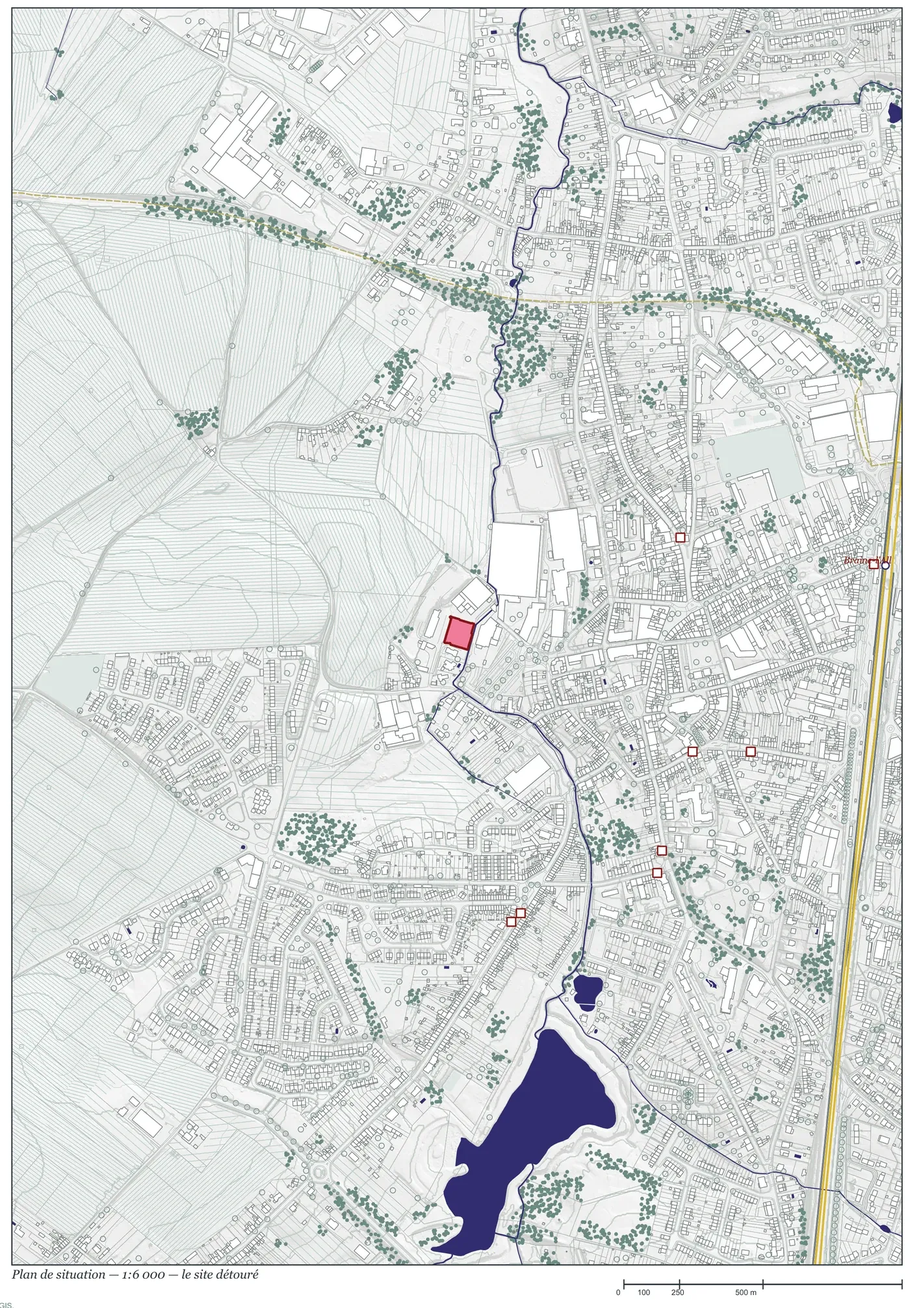
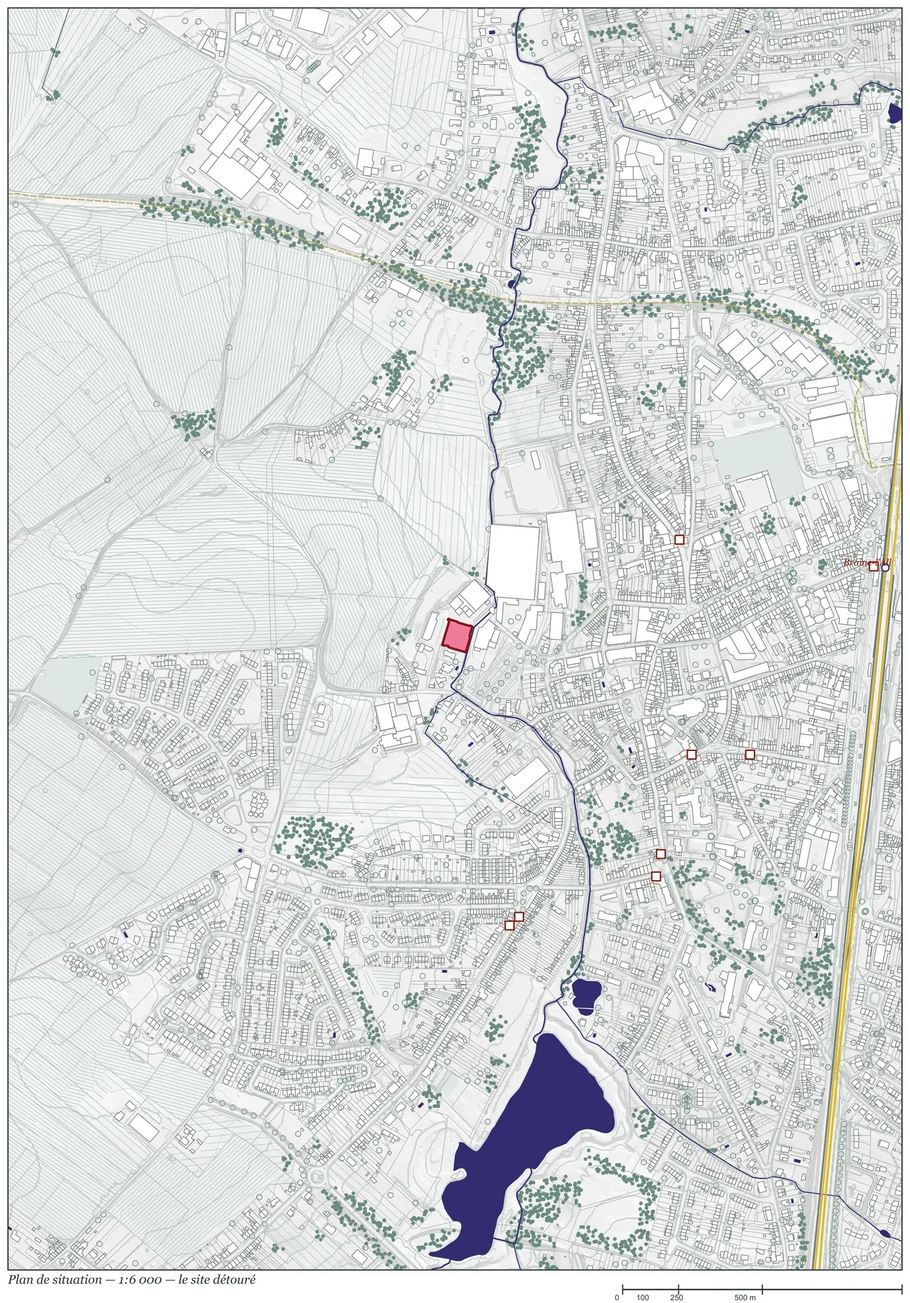
Three Seasons : légendes des cartes corrigées après relecture, grande carte recoupée
La relecture contre les images a relevé deux légendes fausses : le hangar est en R+1,
pas parmi les plus hauts, et « R+3 et plus » vaut quatre niveaux ; « north to south »
se lisait comme un sens d'écoulement que la carte ne montre pas. « location plan » et
« zoning » remplacent des calques du français. La grande carte est recoupée pour exclure
le début de la ligne des sources, qui entrait dans le cadrage.

diff --git a/projets/projets.js b/projets/projets.js
@@ -52,10 +52,10 @@ window.PROJETS = [
       { src: 'projets/images/tsa-site-plan_1400.webp', w: 1400, h: 846, legende: 'site plan — the Carimar site around its central yard, the Hain along the east edge, the neighbouring buildings' },
       { src: 'projets/images/tsa-ground-floor_1400.webp', w: 1400, h: 1718, legende: 'ground floor — foyer on the yard, entrance hall under the sawtooth roofs, rooms and workshops off the corridor, maple garden to the north; new in red, existing in grey' },
       { src: 'projets/images/tsa-first-floor_1400.webp', w: 1400, h: 1718, legende: 'first floor — the single upper level, above the multi-purpose rooms' },
-      { src: 'projets/images/tsa-map-situation_1400.webp', w: 1400, h: 2013, legende: 'situation plan, 1:6 000 — the site outlined in red, the Hain running north to south, railway line 124 to the east' },
+      { src: 'projets/images/tsa-map-situation_1400.webp', w: 1400, h: 2006, legende: 'location plan, 1:6 000 — the site outlined in red, the Hain running north–south past it, railway line 124 to the east' },
       { src: 'projets/images/tsa-map-connections_1174.webp', w: 1174, h: 1526, legende: 'connections, 1:15 000 — municipal roads and paths, railway line 124, the RAVeL greenway, bus stops, the Hain' },
-      { src: 'projets/images/tsa-map-land-use_1162.webp', w: 1162, h: 1543, legende: 'land use, 1:15 000 — housing, rural housing, mixed economic activity, public facilities; the warehouse in red' },
-      { src: 'projets/images/tsa-map-building-heights_1174.webp', w: 1174, h: 1456, legende: 'building heights, 1:15 000 — from single-storey to three storeys and more; the warehouse among the tallest' },
+      { src: 'projets/images/tsa-map-land-use_1162.webp', w: 1162, h: 1543, legende: 'zoning, 1:15 000 — housing, rural housing, mixed economic activity, public facilities; the warehouse outlined in red' },
+      { src: 'projets/images/tsa-map-building-heights_1174.webp', w: 1174, h: 1456, legende: 'building heights, 1:15 000 — from single-storey to four storeys or more; the warehouse outlined in red, the tallest blocks just to its north-east' },
       { src: 'projets/images/tsa-map-figure-ground_1162.webp', w: 1162, h: 1361, legende: 'figure-ground, 1:15 000 — the built fabric, the warehouse in red' },
       { src: 'projets/images/tsa-photo-01-hall-racks_1021.webp', w: 1021, h: 1004, legende: 'the warehouse as found — storage racks beneath the sawtooth roofs' },
       { src: 'projets/images/tsa-photo-03-hall-yard_1009.webp', w: 1009, h: 1004, legende: 'as found — from inside the warehouse towards the yard, two figures in the opening against the light' },
